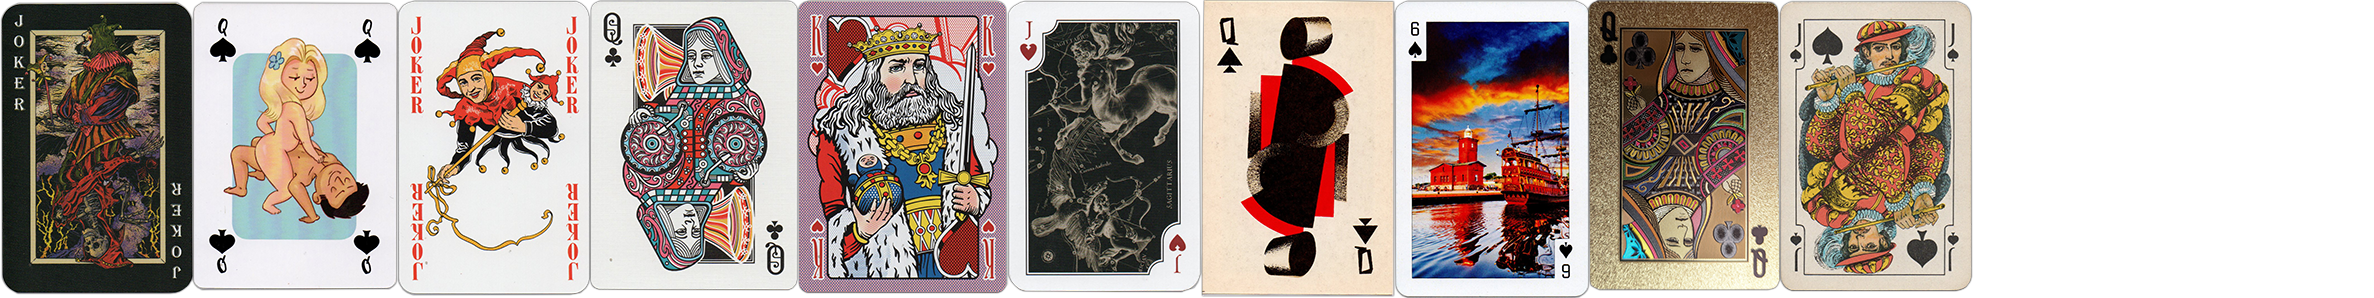
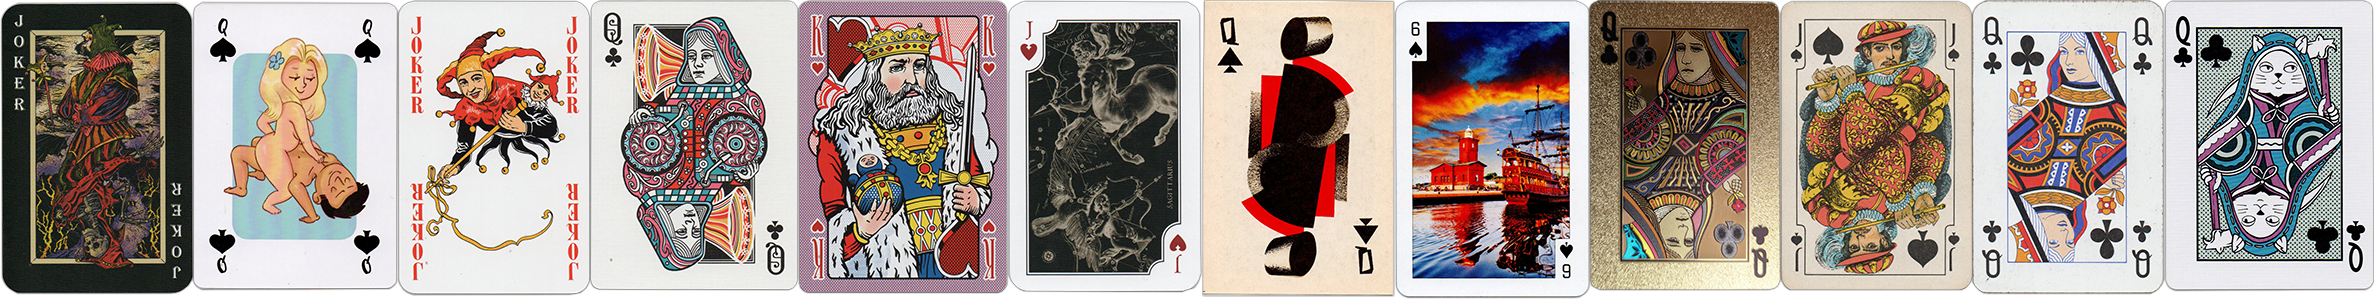
feat(Playing cards): add new cards

diff --git a/src/app/components/item-pages/PlayingCardsPage/index.tsx b/src/app/components/item-pages/PlayingCardsPage/index.tsx
@@ -17,6 +17,7 @@ import playingCards6Imgs from './playing-cards-row6.png'
 import playingCards7Imgs from './playing-cards-row7.png'
 import playingCards8Imgs from './playing-cards-row8.png'
 import playingCards9Imgs from './playing-cards-row9.png'
+import playingCards10Imgs from './playing-cards-row10.png'
 import playingCardsXImgs from './playing-cards-unusual.png'
 
 interface Data {
@@ -835,6 +836,37 @@ const PlayingCardsPage: React.FunctionComponent<ItemPageProps> = ({className, it
               height={1042}
               imgs={playingCards9Imgs}
             />
+            <PlayingCard
+              href="https://www.piatnik.pl/1300"
+              title="Piatnic Classic No. 1300"
+              x={7109}
+              y={0}
+              width={692}
+              height={1063}
+              imgs={playingCards9Imgs}
+            />
+            <PlayingCard
+              href="https://neroshop.ru/product/meowy-scythes/"
+              title="Meowy Scythes"
+              x={7801}
+              y={0}
+              width={757}
+              height={1049}
+              imgs={playingCards9Imgs}
+            />
+
+            {/* row #10 */}
+            <PlayingCard title="Tsaryk Family" x={0} y={0} width={707} height={1006} imgs={playingCards10Imgs} />
+            <PlayingCard
+              title="Casino İskambil Kart Destesi"
+              href="https://www.flyingtiger.com.tr/en/products/casino-i%CC%87skambil-kart-destesi"
+              x={707}
+              y={0}
+              width={689}
+              height={1056}
+              imgs={playingCards10Imgs}
+            />
+            <PlayingCard title="Karty Wyborcze" x={1395} y={0} width={692} height={1056} imgs={playingCards10Imgs} />
 
             {/* unusual */}
             <PlayingCard title="Pokemon" x={4239} y={0} width={418} height={656} imgs={playingCardsXImgs} />

diff --git a/src/app/data/translations/ru.ts b/src/app/data/translations/ru.ts
@@ -602,7 +602,7 @@ export const ru: TranslatedStrings = {
       p2: 'Не ставлю себе задачу собрать очень много и всё подряд, поэтому коллекция не очень \
 большая и насчитывает на данный момент около 120 колод. Собираю именно те, \
 которые понравились.',
-      imgTitle: 'По одной карте из каждой колоды (кликабельно). Ноябрь 2025',
+      imgTitle: 'По одной карте из каждой колоды (кликабельно). Март 2026',
     },
   },
   Poland: {

diff --git a/src/app/data/translations/en.ts b/src/app/data/translations/en.ts
@@ -533,7 +533,7 @@ export const en: TranslatedStrings = {
       p2: 'There is no purpose to gather everything from everywhere, \
 so the collection is not so big and contains around 120 decks today. \
 Collecting those which I really like.',
-      imgTitle: 'One card from each deck (clickable). November 2025',
+      imgTitle: 'One card from each deck (clickable). March 2026',
     },
   },
   Poland: {
